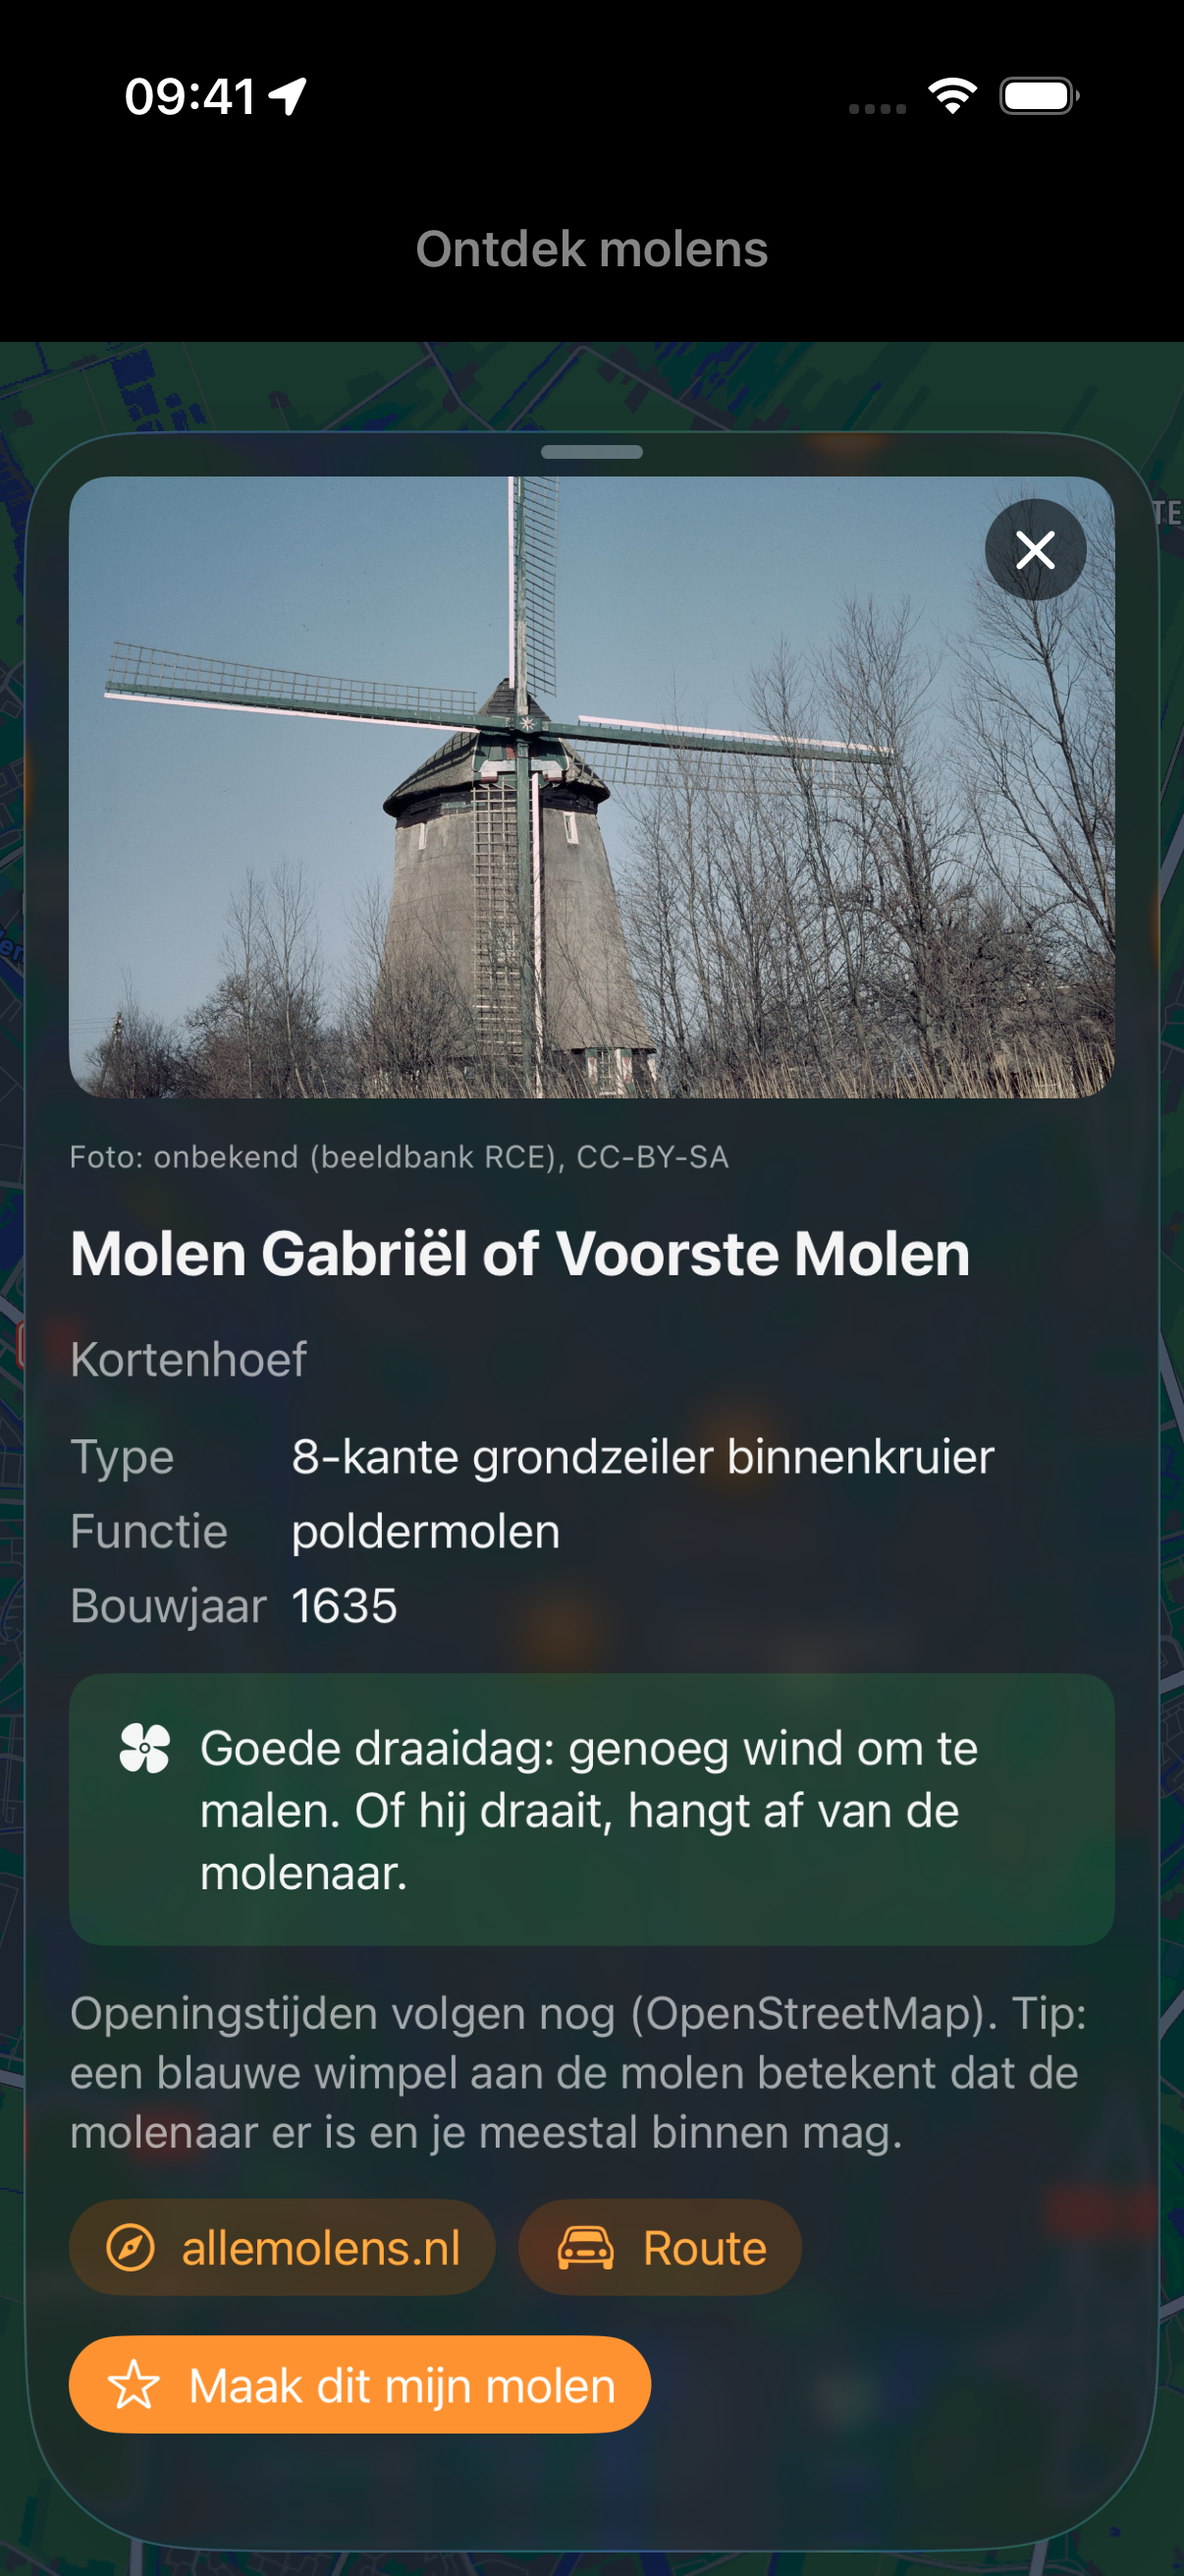
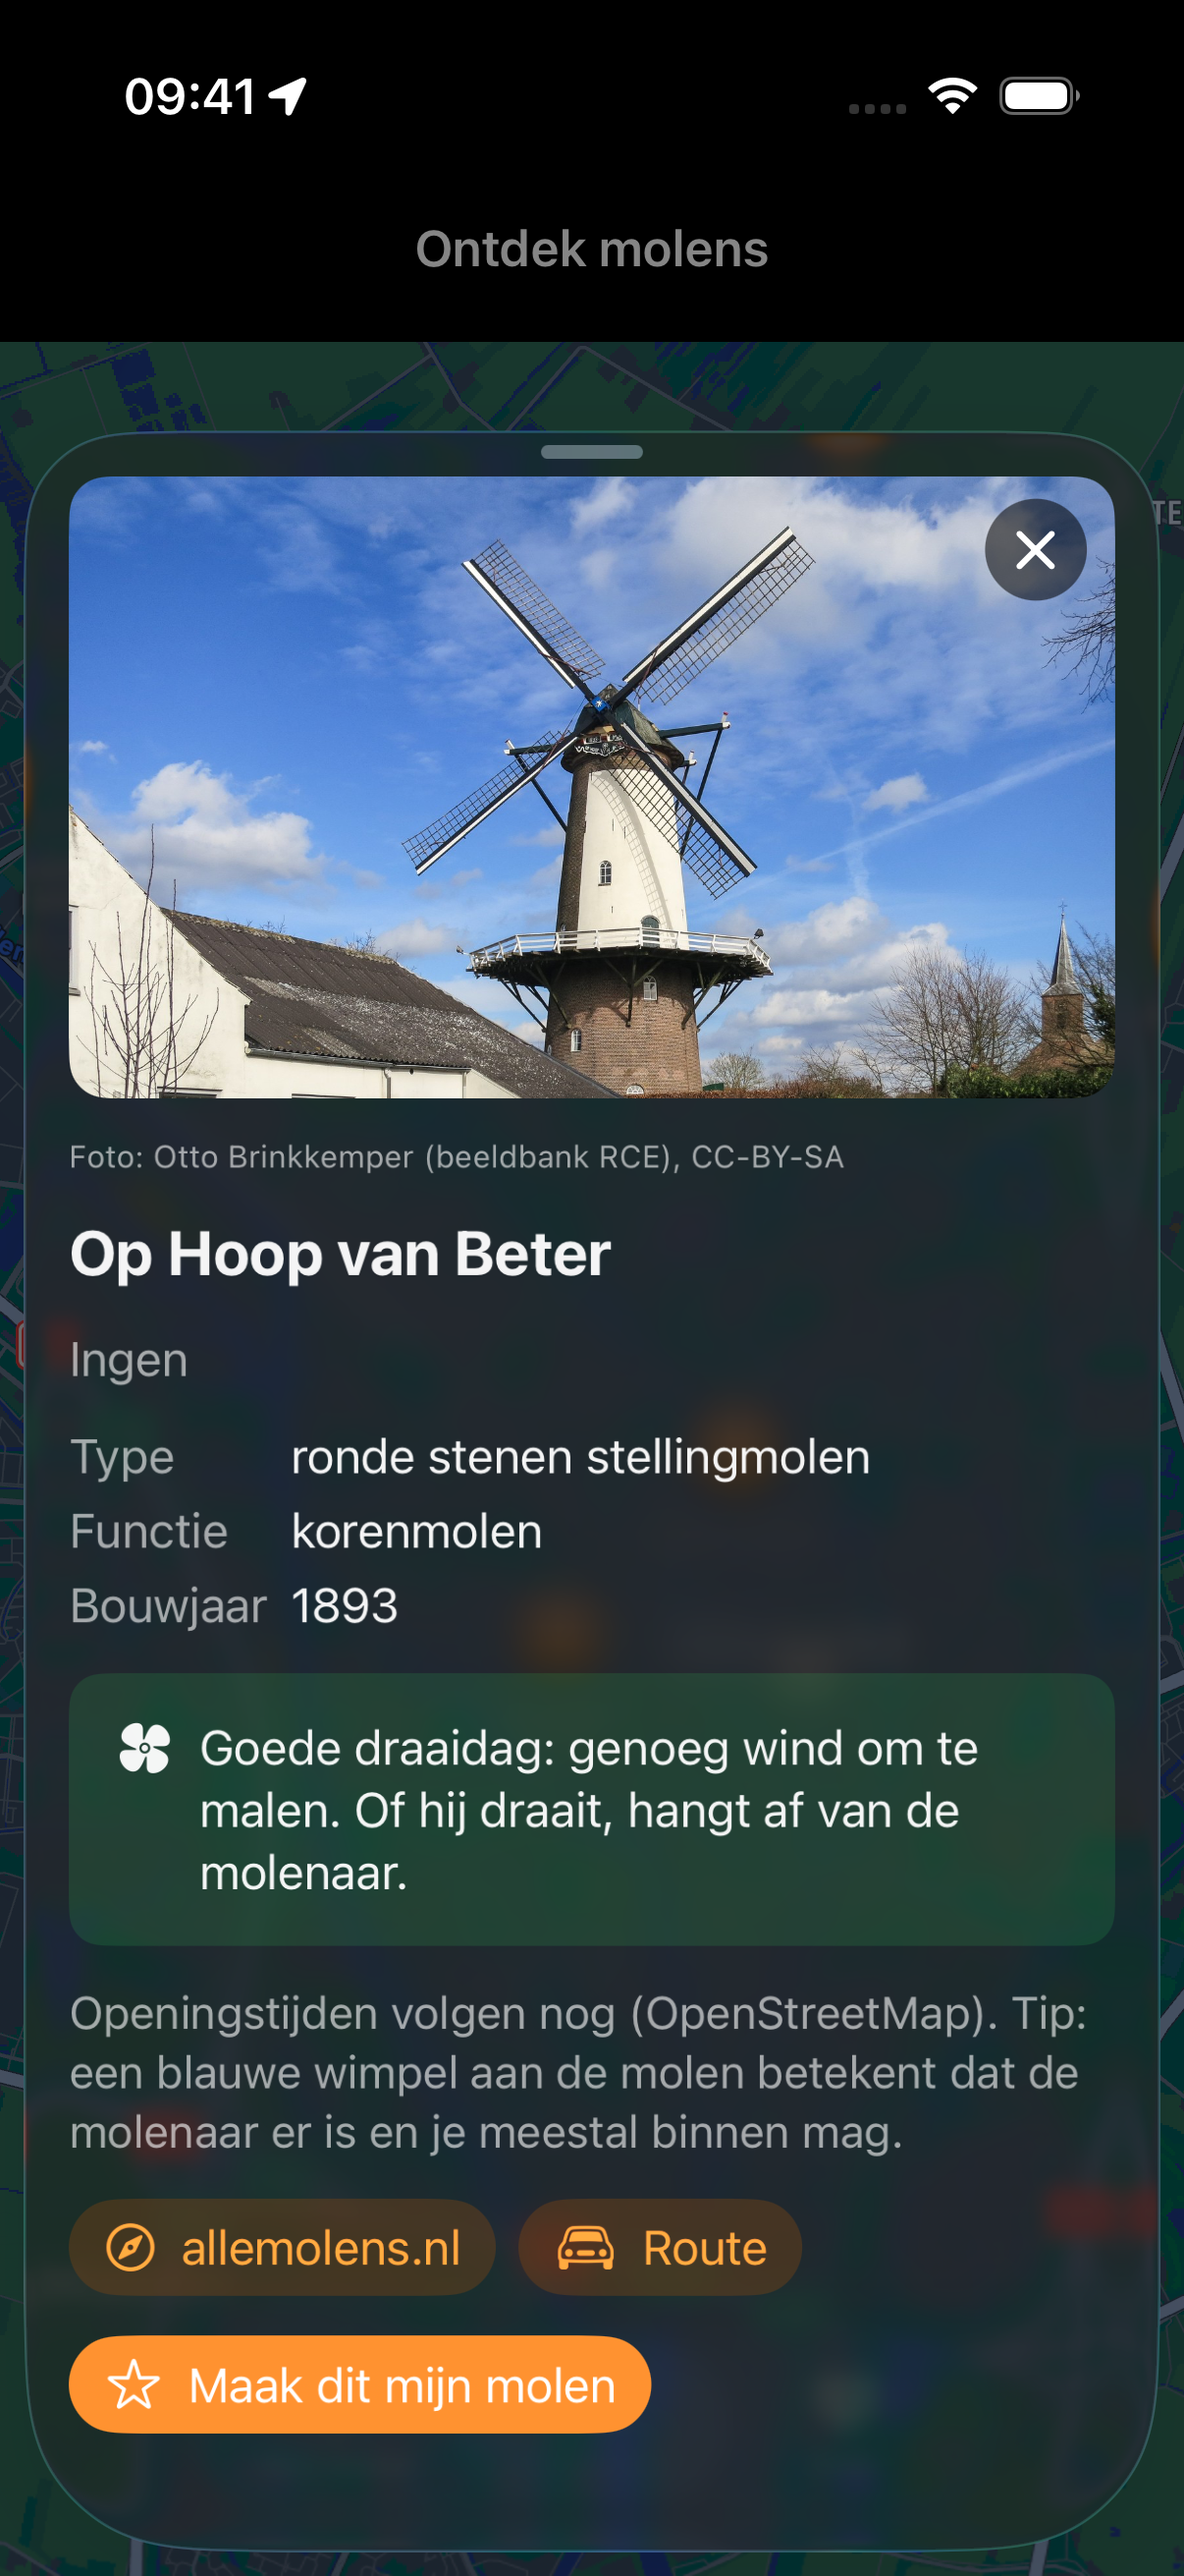
README: molenpagina-screenshot van Op Hoop van Beter (Ingen)

Changed region(s): [[0.0307, 0.1854, 0.9511, 0.4943], [0.2454, 0.5561, 0.8284, 0.6487], [0.0614, 0.5252, 0.2454, 0.5561]]

diff --git a/README.md b/README.md
@@ -9,7 +9,7 @@ Gratis, open-source iPhone-app voor **molenaars** en **molenliefhebbers** in Ned
 - **Ontdekken**, voor toeristen: ruim 1.200 bestaande windmolens op de kaart, met foto, type, bouwjaar en een
   indicatie of het vandaag een goede draaidag is.
 
-Het idee komt van een gesprek met een molenaar: *"wind is het allerbelangrijkste"*.
+Het idee komt van een gesprek met de molenaar in Ingen: *"wind is het allerbelangrijkste"*.
 
 > Status: prototype (november 2026), nog niet in de App Store.
 
@@ -17,7 +17,7 @@ Het idee komt van een gesprek met een molenaar: *"wind is het allerbelangrijkste
 <img src="screenshots/1-mijn-molen-wind.png" width="200" alt="Mijn molen: windkompas">
 <img src="screenshots/6-mijn-molen-zoomkaart.png" width="200" alt="Satellietkaart van de eigen molen">
 <img src="screenshots/2-kaart-clusters.png" width="200" alt="Kaart met molens">
-<img src="screenshots/3-molenpagina.png" width="200" alt="Molenpagina">
+<img src="screenshots/3-molenpagina.png" width="200" alt="Molenpagina: Op Hoop van Beter in Ingen">
 </p>
 
 ## Functies
